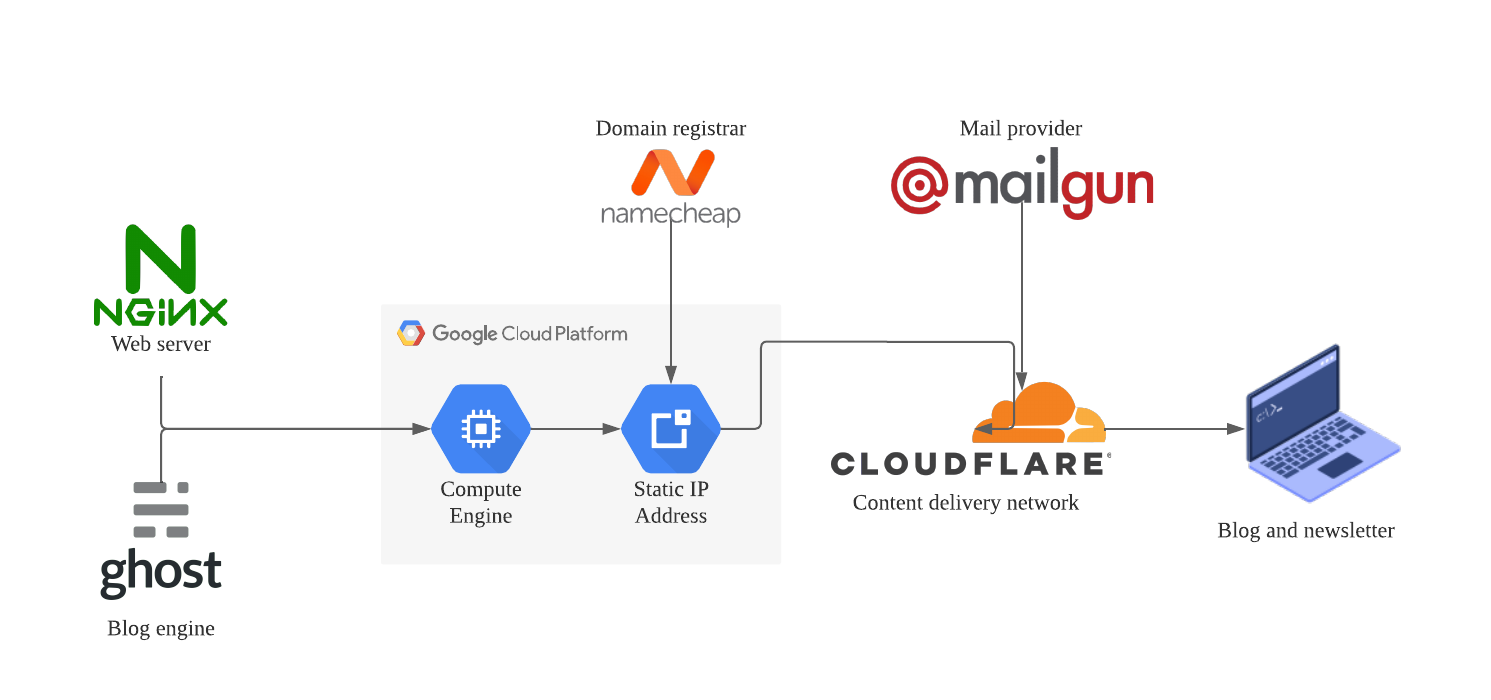
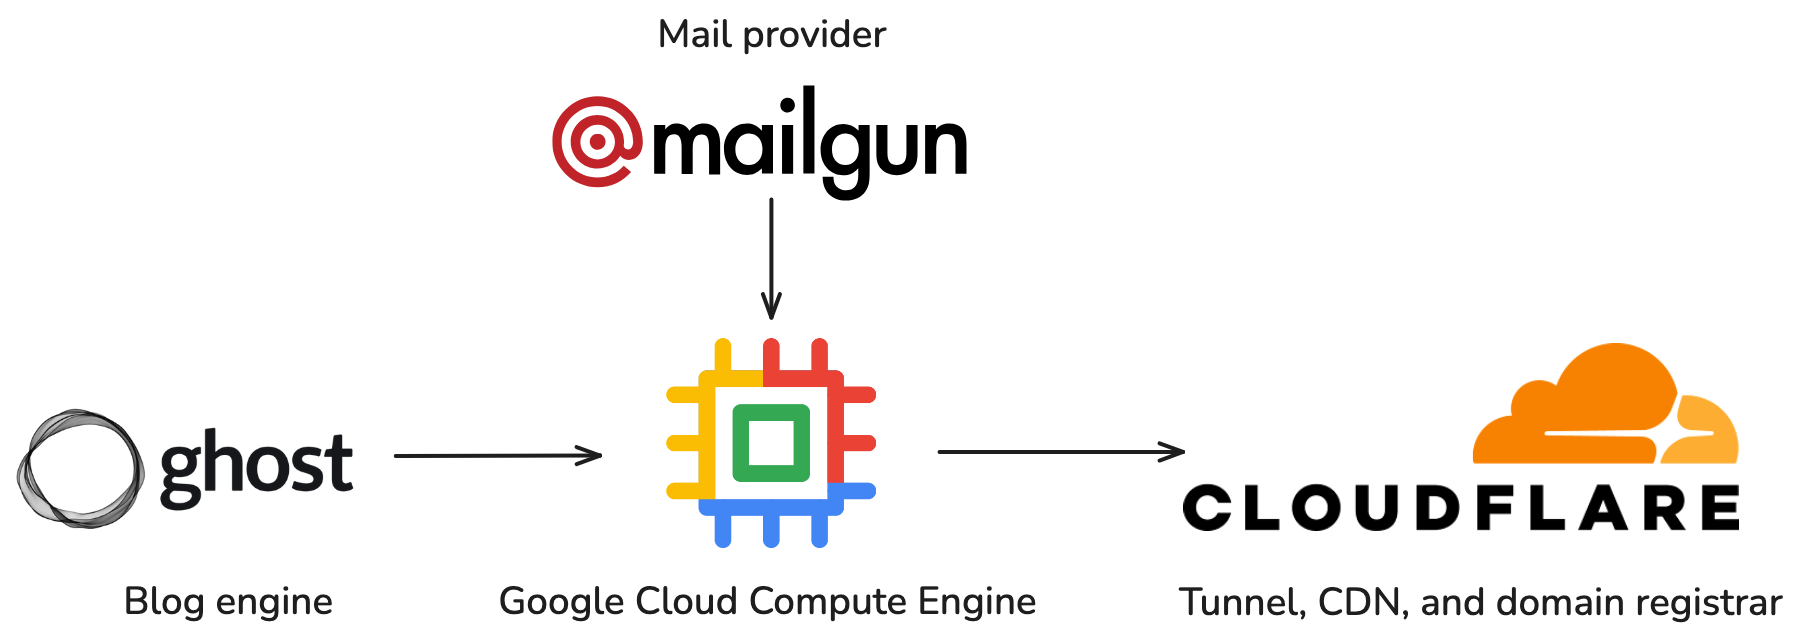
Update blogpost

diff --git a/_posts/2022-01-01-self-hosting-ghost-on-google-cloud.md b/_posts/2022-01-01-self-hosting-ghost-on-google-cloud.md
@@ -1,14 +1,14 @@
 ---
 layout: post
-title:  Self-hosting Ghost on Google Cloud
-last_updated:   2024-11-20
-description: A plaintext guide to deploying an almost-free, fully self-hosted Ghost blog on Google Cloud.
+title:  Self-hosting Ghost on Google Cloud and Cloudflare
+last_updated: 2026-11-07
+description: A plaintext guide to deploying an almost-free, fully self-hosted Ghost blog on Google Cloud and Cloudflare.
 categories: guide, website, cloud
 og_image: ghost-google-cloud-diagram.png
 twitter_large_image: true
 ---
 
-<img class="img-fluid rounded" src="/assets/img/ghost-google-cloud-diagram.png" alt="A flowchart. Engine X web server and ghost blog engine. A right directed arrow toward a grey box entitled google cloud. Inside the grey box, compute engine. Right directed arrow. Static IP address. Right directed arrow. Cloud flare content delivery network. From above the grey box, name cheap, domain registrar. Below directed arrow. Static IP address. From above cloud flare, mail provider mail gun. Below directed arrow. Cloud flare, content delivery network. Right directed arrow. Blog and newsletter.">
+<img class="img-fluid rounded" src="/assets/img/ghost-google-cloud-diagram.png" alt="Architecture diagram of a self-hosted blog setup, shown with each service’s logo. On the left, Ghost, labeled “Blog engine,” has an arrow pointing to Google Cloud Compute Engine in the center. Above Compute Engine, Mailgun, labeled “Mail provider,” has an arrow pointing down into it. From Compute Engine, an arrow points right to Cloudflare, labeled “Tunnel, CDN, and domain registrar.">
 
 [I'm sold on this stack, jump to the walkthrough!](#overview)
 
@@ -28,13 +28,12 @@ I recently helped a friend migrate his movie review blog off [Wix](https://www.w
 Requirement (1) ruled out other "as-a-service" website builders, while (2), (3), and (4) together ruled out my go-to [Jekyll](https://jekyllrb.com/) + [GitHub Pages](https://pages.github.com/) combo. In the end, I settled on the stack shown in the diagram above. A brief overview of why I chose each component:
 
 - **Blog engine.** I chose [Ghost](https://ghost.org/) as it has a beautiful content editor and a mobile-friendly control panel. While Ghost (the company) offers managed hosting plans for a fee, Ghost (the blog engine) is open-source and free to self-host.
-- **Web server.** I chose [NGINX](https://www.nginx.com/) as it is Ghost's default option, and I went with the path of least resistance and most documentation. (In the previous version of this guide, I chose [Caddy](https://caddyserver.com/) as it seemed less arcane, but replicating the custom setup proved irksome after [the breaking changes](#changelog) in Ghost v5.0.)
-- **Hosting server.** I chose to use a [Compute Engine](https://cloud.google.com/compute) virtual machine to host the website, because Google Cloud has a unique [Always Free Tier](https://cloud.google.com/free/docs/free-cloud-features#compute) (distinct from their free trial period) with resources enough to permanently host a small- to medium-sized blog (1GB RAM, 1GB monthly traffic to all regions except China and Australia). Google Cloud usually charges for static external IP addresses, but these are also free when attached to Free Tier virtual machines.
-- **Domain registrar.** I like to buy my domain names through [Namecheap](https://namecheap.com) because they're transparent with their prices and don't fill your cart with upsells.
-- **Content delivery network (CDN).** I use [Cloudflare](https://cloudflare.com)'s free CDN service to shorten website loading times and protect against [DDOS](https://www.cloudflare.com/learning/ddos/what-is-a-ddos-attack/) attacks. I also prefer managing DNS records through Cloudflare (rather than at the domain registrar level); not only is [domain resolution](https://www.cloudflare.com/learning/dns/what-is-dns/) faster, the user interface is also sleeker.
+- **Hosting server.** I chose to use a [Compute Engine](https://cloud.google.com/compute) virtual machine to host the website, because Google Cloud has a unique [Always Free Tier](https://cloud.google.com/free/docs/free-cloud-features#compute) (distinct from their free trial period) with resources enough to permanently host a small- to medium-sized blog (1GB RAM, 1GB monthly traffic to all regions except China and Australia). We'll then expose the blog to the public internet using a [Cloudflare tunnel](https://developers.cloudflare.com/tunnel/), which saves us from having to open ports to the public internet.
+- **Domain registrar.** I like to buy my domain names through [Cloudflare](https://cloudflare.com) because they're transparent with their prices and don't fill your cart with upsells. Their DNS record management is also more modern and intuitive.
+- **Content delivery network (CDN).** I also use [Cloudflare](https://cloudflare.com) for its free CDN service to shorten website loading times and protect against [DDOS](https://www.cloudflare.com/learning/ddos/what-is-a-ddos-attack/) attacks.
 - **Mail provider.** Ghost has a built-in newsletter feature that integrates most easily with [Mailgun](https://mailgun.com). I'm not too familiar with mail providers, but Mailgun has been great so far, consistently sending emails to inbox, not spam. The first 1,250 emails every month are [free](https://help.mailgun.com/hc/en-us/articles/360048661093-How-does-PAYG-billing-work), and 0.80 USD / thousand emails thereafter. (Ghost also uses Mailgun to send password reset emails, so it's a good idea to set Mailgun up even if you won't be sending out newsletters.)
 
-I tried to come up with a tech stack that was **as low-cost as a self-hosted website could possibly be.** In the diagram above, the only cost for certain is the annual domain name rental fee; everything else is either totally free (Ghost, NGINX, MySQL) or free with usage limits (Google Cloud, Cloudflare, Mailgun).
+I tried to come up with a tech stack that was **as low-cost as a self-hosted website could possibly be.** In the diagram above, the only cost for certain is the annual domain name rental fee; everything else is either totally free (Ghost) or free with usage limits (Google Cloud, Cloudflare, Mailgun).
 
 ## Overview
 
@@ -73,34 +72,39 @@ The whole thing takes 1-2 hours depending on your comfort level with the various
    - `Yes, I'm using Compute Engine`    
 2. Go to Instance Templates > `Create Instance Template`:
    - Name: `free-web-server`
+   - Location: `Regional`
    - Machine family: `General-purpose`
    - Series: `E2`
-   - Machine type: `e2-micro (2vCPU, 1GB memory)`
+   - Machine type: `e2-micro (2vCPU, 1 core, 1GB memory)`
    - Boot disk:
       - Operating system: `Ubuntu`
       - Version: `Ubuntu 24.04 LTS Minimal x86/64`
       - Boot disk type: `Standard persistent disk`
-      - Size (GB): 25
-   - Firewall:
-      - `Allow HTTP traffic`, `Allow HTTPS traffic`
+      - Size (GB): `30`
    - Advanced Options > Networking > `Network tags`:
       - Type `mail` then press `Enter`
+   - Management > Metadata > `Add item`:
+      - `enable-oslogin`: TRUE
 3. Go to VM instances > `Create an instance`:
    - New VM Instance from template: `free-web-server`
    - Name: `ghost-blog`
-   - Region: `us-west1` (or any region on the [Always Free Tier](https://cloud.google.com/free/docs/free-cloud-features#compute))
+   - Region: `us-central1` (or any region on the [Always Free Tier](https://cloud.google.com/free/docs/free-cloud-features#compute))
 4. Go to Snapshots > `Create Snapshot Schedule`:
    - Name: `weekly-backup-schedule`
-   - Schedule location: `us-west1` (the same region as your instance)
+   - Schedule location: `us-central1` (the same region as your instance)
    - Snapshot storage location: `Regional`
-      - Location: `us-west1`
+      - Location: `us-central1`
    - Schedule frequency: `Weekly`
-   - Autodelete snapshots after: `7` days
+   - Autodelete snapshots after: `14` days
 5. Go to Disks > `ghost-blog` > `Edit`:
    - Snapshot schedule: `weekly-backup-schedule`
 
 #### Initialize VPC Network
-1. Go to VPC network > Firewall > `Create Firewall Rule`:
+1. Go to VPC network > Firewall and delete the following default rules:
+   - `default-allow-icmp`
+   - `default-allow-rdp`
+2. Click on `default-allow-ssh` > Edit. Remove `0.0.0.0/0` from the Source IPv4 ranges and replace it with `35.235.240.0/20`.
+3. Click `Create Firewall Rule`:
    - Name: `allow-outgoing-2525`
    - Logs: `Off`
    - Direction: `Egress`
@@ -108,28 +112,12 @@ The whole thing takes 1-2 hours depending on your comfort level with the various
    - Targets: `Specified target tags` > `mail`
    - Destination filter: `IPv4 ranges` > `0.0.0.0/0`
    - Protocols and ports: `Specified protocols and ports` > `TCP`: `2525`
-2. Go to IP addresses > `Reserve External Static Address`:
-   - Name: `ghost-blog-ip`
-   - Network service tier: `Standard`
-   - Region: `us-west1` (the same region as your instance)
-   - Attached to: `ghost-blog`
-3. Take note of the External IP address assigned to your instance.
 
 ### 2. Configure the domain
 
 #### Buy a domain and set up Cloudflare
-1. Make a [Namecheap account](https://www.namecheap.com/myaccount/signup/) and buy your domain. I'll use `ghostblog.com` as an example. Going forward, everywhere you see `ghostblog.com`, replace it with your own domain name. 
-2. Make a [Cloudflare account](https://www.cloudflare.com/plans/) and add your domain under the Free subscription plan.
-3. Under "Review your DNS records", first **delete all the records**.
-4. Then `Add record`:
-   - Type: `A`
-   - Name: `@`
-   - IPv4 address: your external IP address
-   - Proxy status: `DNS only`
-   - `Save` > `Continue` > `Confirm`.
-5. Go back to Namecheap > ghostblog.com > Manage > Nameservers > `Custom DNS` and input the specified Cloudflare nameservers.
-6. Go back to Cloudflare > `Done, check nameservers`.
-7. Select Overview > Advanced Actions (in the right sidebar) > `Pause Cloudflare on site` while finishing setup.
+1. Make a [Cloudflare account](https://www.cloudflare.com/plans/) and buy your domain. I'll use `ghostblog.com` as an example. Going forward, everywhere you see `ghostblog.com`, replace it with your own domain name.
+2. Add your domain under the Free subscription plan.
 
 #### Set up Mailgun
 1. Make a [Mailgun account](https://signup.mailgun.com/new/signup) under the `Flex` plan. You'll be asked to confirm a phone number and put your card details on file. For the latest on how to access the `Flex` plan, check [this forum thread](https://forum.ghost.org/t/mailgun-flex-plan-deprecated/60120).
@@ -151,7 +139,7 @@ The whole thing takes 1-2 hours depending on your comfort level with the various
 
    ```bash
    sudo apt-get update && sudo apt-get -y upgrade
-   sudo apt update && sudo apt install -y nano ufw cron
+   sudo apt update && sudo apt install -y nano cron bash-completion
    sudo systemctl enable --now cron
    ```
 
@@ -204,12 +192,6 @@ To minimize the chance of Ghost running out of memory on a small virtual machine
    should show `Swap: 2.0G`.
 
 #### Install Ghost dependencies
-1. Install Nginx and open the firewall:
-
-   ```bash
-   sudo apt-get install -y nginx && sudo ufw allow 'Nginx Full'
-   ```
-
 2. Install NodeJS:
 
    ```bash
@@ -310,14 +292,13 @@ To minimize the chance of Ghost running out of memory on a small virtual machine
    ```
 
    then configure as follows:
-   - Blog URL: `https://ghostblog.com`
+   - Blog URL: `https://www.ghostblog.com`
    - MySQL hostname: `localhost`
    - MySQL username: `root`
    - MySQL password: the password you set for `root`
    - Ghost database name: `ghost_prod`
    - Set up Ghost MySQL user? — `Y`
-   - Set up NGINX? — `Y`
-   - Set up SSL? — `Y`, then enter your email
+   - Set up NGINX? — `N`
    - Set up systemd? — `Y`
    - Start Ghost? — `Y`
     
@@ -368,8 +349,21 @@ To minimize the chance of Ghost running out of memory on a small virtual machine
    ghost restart
    ```
 
-### 4. Configure Ghost
-1. Go to `https://ghostblog.com/ghost`. Create your admin login credentials.
+### 4. Setup Cloudflare tunnel
+1. In your Cloudflare dashboard, go to Zero Trust and activate the free plan.
+2. Then go to Networking > Tunnels > `Create Tunnel` and set Tunnel name to `www.ghostblog.com`.
+3. Under Setup Environment, select:
+   - Operating system: Debian
+   - Architecture: 64-bit
+then copy and paste the two install commands ('Install cloudflared' and 'Install as service') into the SSH window.
+4. Once the Connection status says 'Tunnel connected successfully', click `Continue`.
+5. Click into the tunnel > Routes > `Add route`:
+   - Type: Published Application
+   - Subdomain: `www`
+   - Service URL: `http://localhost:2368`
+
+### 5. Configure Ghost
+1. Go to `https://www.ghostblog.com/ghost`. Create your admin login credentials.
 2. Customize your site > the "gear" icon > Membership > Newsletters > Mailgun > `Edit`:
    - Mailgun region: `US` (unless you previously chose `EU`)
    - Mailgun domain: `mg.ghostblog.com`
@@ -377,17 +371,22 @@ To minimize the chance of Ghost running out of memory on a small virtual machine
 
    Then click `Save` in the upper-right corner.
 
-### 5. Finish Cloudflare configuration
-1. Go back to Cloudflare. If you had previously `Paused` Cloudflare, go back to Advanced Actions > `Enable Cloudflare on site`.
-2. Go to ghostblog.com > DNS > `Add record`:
-   - Type: `A`
-   - Name: `www`
-   - IPv4 address: your Google Cloud external IP address
-   - Proxy status: `Proxied`
-3. `Edit` the other A record to change Proxy status to `Proxied`.
-4. Go to ghostblog.com > SSL/TLS > Overview and change SSL/TLS encryption mode to `Full`.
+### 6. Finish Cloudflare configuration
+1. *(optional)* If you want your site to also be accessible at the apex domain (i.e., `https://ghostblog.com`), go back to Cloudflare > ghostblog.com > DNS > `Add record`:
+   - Type: `AAAA`
+   - Name: `@`
+   - IPv6 address: `100::`
+   and ensure that the record is proxied through Cloudflare.
+2. Under Rules > Redirect Rules > `Create rule`:
+   - Rule name: `Redirect Apex to www`
+   - If incoming requests match: `Custom filter expression`
+   - When incoming requests match: `Hostname equals ghostblog.com`
+   - Type: `Dynamic`
+   - Expression: `concat("https://www.ghostblog.com", http.request.uri.path)`
+   - Status code: `301`
+   - Preserve query string: ticked
 
-### 6. Create maintenance scripts
+### 7. Create maintenance scripts
 
 #### Enable Ghost auto-start
 
@@ -398,8 +397,6 @@ Sometimes virtual machines restart by themselves. Create this cron job so that w
    ```bash
    crontab -e
    ```
-
-   and press `1` to select Nano as your text editor.
 
 2. Paste the following into the cronfile:
 
@@ -444,7 +441,7 @@ I use [this script](https://gist.github.com/scottleechua/ca3db03becdfcc1efe5730b
 While it would technically be possible to configure automatic updates with a cron job, I would advise keeping an eye on the update process in case human intervention is required.
 
 ### Congratulations!
-At this point you should have a working self-hosted Ghost blog. Updates aside, you should be working from the `https://ghostblog.com/ghost` control panel from now on.
+At this point you should have a working self-hosted Ghost blog. Updates aside, you should be working from the `https://www.ghostblog.com/ghost` control panel from now on.
 
 ---
 
@@ -452,6 +449,10 @@ At this point you should have a working self-hosted Ghost blog. Updates aside, y
 This workflow last worked for me as of the most recent date in the changelog below. If you spot errors, vulnerabilities, or potential improvements, please do [open a pull request](https://github.com/scottleechua/scottleechua.github.io/blob/source/_posts/2022-01-01-self-hosting-ghost-on-google-cloud.md) on this blog post!
 
 ## Changelog
+
+- **2026-11-07**: The major change is to introduce the use of a Cloudflare tunnel to expose the blog to the internet. This hardens security, as we can close the server's own ports, and also removes the need to reserve a static IP address within Google Cloud. Some minor changes: recommend setting up blogs on the `www` subdomain instead of the apex; recommend Cloudflare domain registrar instead of Namecheap; update the `update.sh` bash script.
+
+Change my recommended boot OS to the Minimal version of Ubuntu, and updated setup instructions with any necessary additional installations. Ghost seems to run and update faster on Minimal.
 
 - **2026-10-11**: Change my recommended boot OS to the Minimal version of Ubuntu, and updated setup instructions with any necessary additional installations. Ghost seems to run and update faster on Minimal.
 
